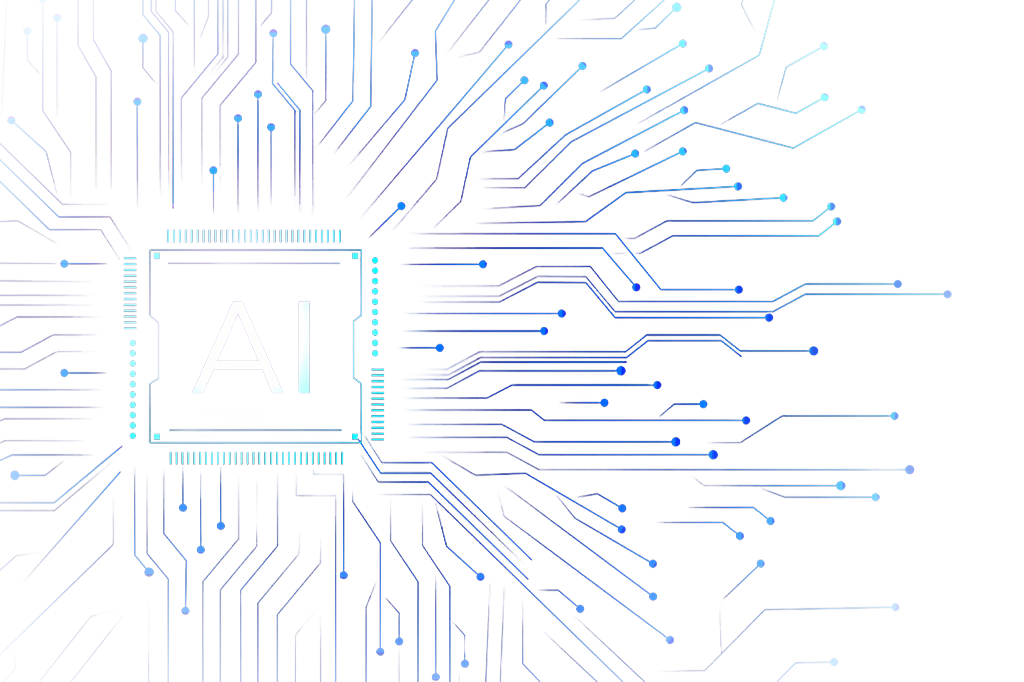
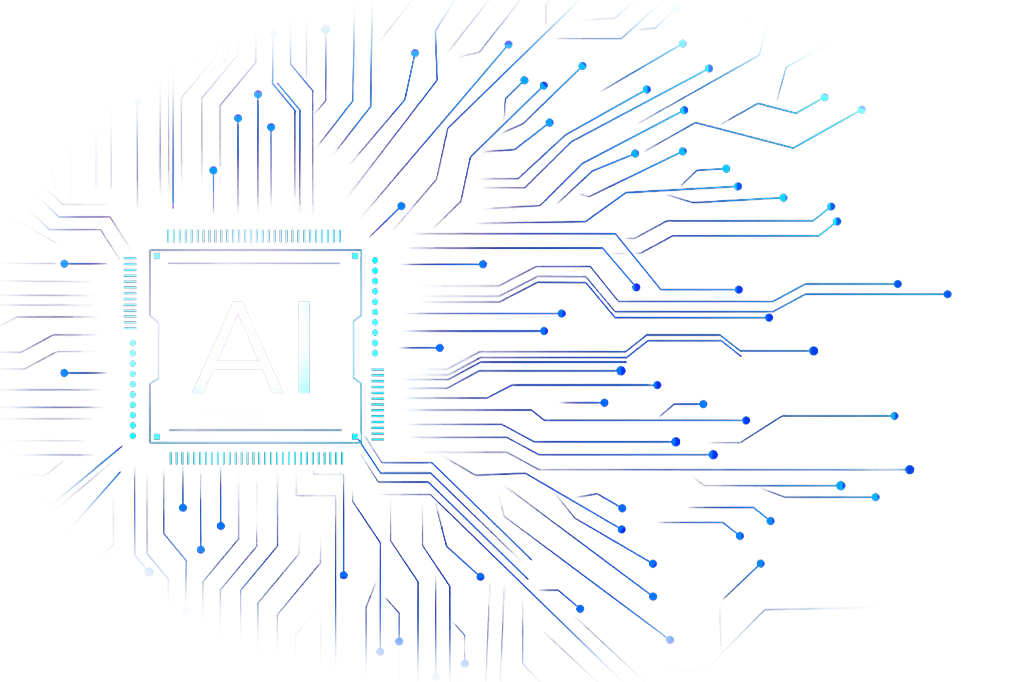
Update HeroSection image source

diff --git a/client/src/components/HeroSection/index.jsx b/client/src/components/HeroSection/index.jsx
@@ -7,7 +7,7 @@ const HeroSection = () => {
 				<div className='grid max-w-screen-xl px-4 py-8 mx-auto lg:gap-8 xl:gap-0 lg:py-16 lg:grid-cols-12'>
 					<div className='hidden lg:mt-0 lg:col-span-5 lg:flex'>
 						<img
-							src='./images/Hero.png'
+							src='./images/HeroFaded.png'
 							alt='mockup'
 						/>
 					</div>
